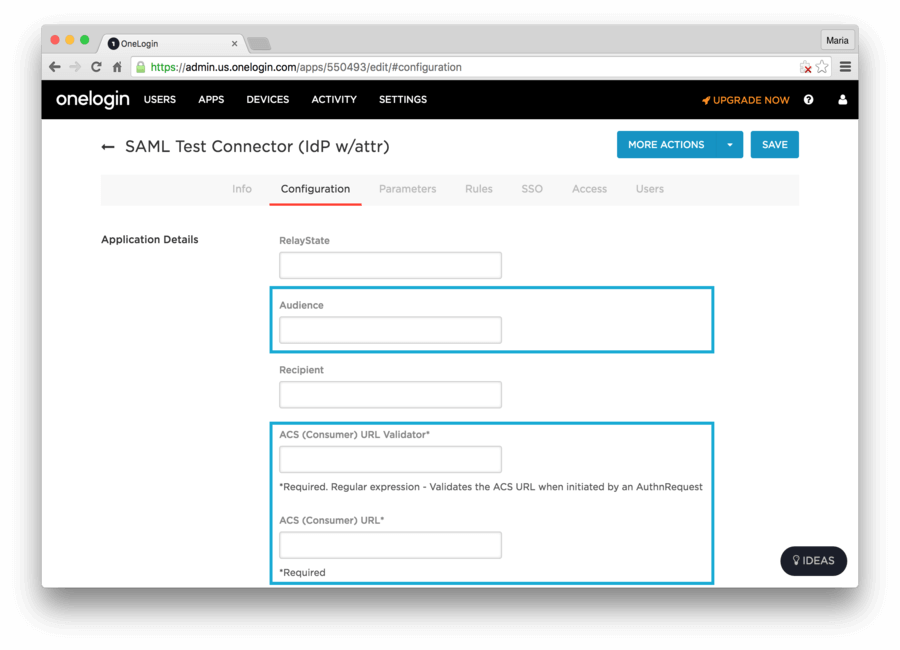
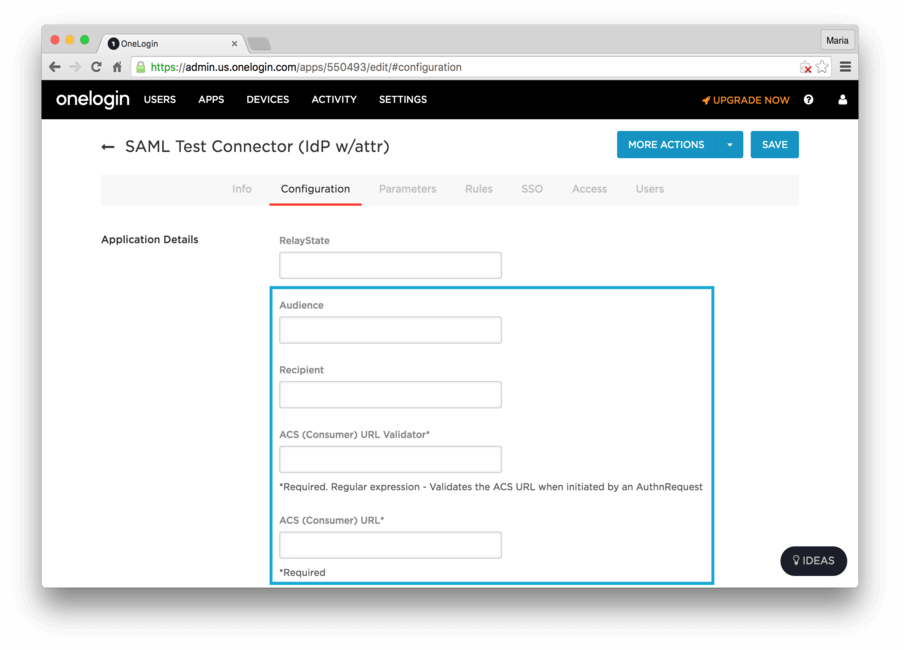
Added values for input and updated accompanying screenshot. (#6356)

diff --git a/articles/protocols/saml/identity-providers/onelogin.md b/articles/protocols/saml/identity-providers/onelogin.md
@@ -1,6 +1,7 @@
 ---
 title: OneLogin
 description: How to configure OneLogin as an identity provider.
+toc: true
 topics:
     - saml
     - identity-providers
@@ -14,19 +15,19 @@ useCase:
 
 ## Configure app on OneLogin dashboard
 
-Go to [OneLogin](https://www.onelogin.com/) dashboard and click on **Apps** > **Add Apps**.
+Go to the [OneLogin](https://www.onelogin.com/) dashboard, and click on **Apps** > **Add Apps**.
 
 ![](/media/articles/saml/identity-providers/onelogin/onelogin-add-app.png)
 
-Search for *saml* and select **SAML Test Connector (IdP w/attr)**
+Search for *saml*, and select **SAML Test Connector (IdP w/attr)**
 
 ![](/media/articles/saml/identity-providers/onelogin/onelogin-search-app.png)
 
-Change the **Display Name** of your app if you wish and click **SAVE**.
+Change the **Display Name** of your app if you wish, and click **SAVE**.
 
 ![](/media/articles/saml/identity-providers/onelogin/onelogin-save-app.png)
 
-Go to the **SSO** tab and copy the values of **SAML 2.0 Endpoint (HTTP)** and **SLO Endpoint (HTTP)**. Click on the *View Details* link at the **X.509 Certificate** field.
+Go to the **SSO** tab, and copy the values of **SAML 2.0 Endpoint (HTTP)** and **SLO Endpoint (HTTP)**. Click on the *View Details* link at the **X.509 Certificate** field.
 
 ![](/media/articles/saml/identity-providers/onelogin/onelogin-copy-values.png)
 
@@ -36,15 +37,15 @@ Download the X.509 certificate: `onelogin.pem`.
 
 ## Configure connection on Auth0 dashboard
 
-Go to [Auth0 dashboard > Connections > Enterprise > SAMLP Identity Provider](${manage_url}/#/connections/enterprise) and click **Create New** (plus icon)
+Go to [Auth0 dashboard > Connections > Enterprise > SAMLP Identity Provider](${manage_url}/#/connections/enterprise), and click **Create New** (plus icon).
 
 ![](/media/articles/saml/identity-providers/onelogin/auth0-new-samlp.png)
 
-Set a **Connection Name** (such as onelogin-customer) and copy the **SAML 2.0 Endpoint (HTTP)** on the **Sign In URL** input, and the **SLO Endpoint (HTTP)** on the **Sign Out URL** input. Upload the `onelogin.pem` certificate.
+Set a **Connection Name** (such as onelogin-customer), and copy the **SAML 2.0 Endpoint (HTTP)** on the **Sign In URL** input, and the **SLO Endpoint (HTTP)** on the **Sign Out URL** input. Upload the `onelogin.pem` certificate.
 
 ![](/media/articles/saml/identity-providers/onelogin/auth0-set-values.png)
 
-Click on **SAVE**. You will get a dialog with a **Continue** button and a link, both will take you to the following instructions:
+Click on **SAVE**. You will get a dialog with a **Continue** button and a link; both will take you to the following instructions:
 
 ![](/media/articles/saml/identity-providers/onelogin/auth0-instructions.png)
 
@@ -53,15 +54,21 @@ The information here is what the OneLogin admin needs to finish the configuratio
 * **SAML Consumer URL**: `https://${account.namespace}/login/callback`
 * **SAML Audience**: `urn:auth0:${account.tenant}:YOUR_CONNECTION_NAME`
 
-Copy the values of the **post-back URL** and the **Entity ID** and head back to your [OneLogin](https://www.onelogin.com/) app. At the **Configuration** tab copy the **post-back URL** on the **ACS (Consumer) URL** input, the **Entity ID** on the **Audience** input, and set a valid regular expression on the **ACS (Consumer) URL Validator** input (such as  `[-a-zA-Z0-9@:%._\+~#=]{2,256}\.[a-z]{2,6}\b([-a-zA-Z0-9@:%_\+.~#?&//=]*)`).
+Copy the values of the **post-back URL** and the **Entity ID**, and head back to your [OneLogin](https://www.onelogin.com/) app.
+
+At the **Configuration** tab:
+
+- Copy the **post-back URL** on the **ACS (Consumer) URL** input and the **Recipient** input
+- Copy the **Entity ID** on the **Audience** input
+- Set a valid regular expression on the **ACS (Consumer) URL Validator** input (for example, `[-a-zA-Z0-9@:%._\+~#=]{2,256}\.[a-z]{2,6}\b([-a-zA-Z0-9@:%_\+.~#?&//=]*)`)
 
 ![](/media/articles/saml/identity-providers/onelogin/onelogin-set-values.png)
 
 ## Testing
 
-If you do not already have a user on OneLogin go at the **Users** tab and add one. Also, your new Auth0 SAMLP connection should be associated with an App, otherwise you will get an `invalid_request: the connection was disabled` error.
+If you do not already have a user on OneLogin, go to the **Users** tab and add one. Also, your new Auth0 SAMLP connection should be associated with an app, otherwise you will get an `invalid_request: the connection was disabled` error.
 
-We are now set to test the connection! On your **SAMLP Identity Provider** connection click the **Try** button.
+We are now set to test the connection! On your **SAMLP Identity Provider** connection, click the **Try** button.
 
 ![](/media/articles/saml/identity-providers/onelogin/auth0-try-conn.png)
 
@@ -70,7 +77,7 @@ You are redirected to a page informing you that the connection works. Well done!
 ![](/media/articles/saml/identity-providers/onelogin/auth0-try-result.png)
 
 ::: note
-The **Try** button only works for users logged in to Auth0 dashboard. You can't send this to an anonymous user (such as a customer). If you don't have a OneLogin user, read the following section to configure Idp Initiated SignOn so the customer can try on their portal.
+The **Try** button only works for users logged in to the Auth0 dashboard. You can't send this to an anonymous user (such as a customer). If you don't have a OneLogin user, read the following section to configure Idp Initiated SignOn so the customer can try on their portal.
 :::
 
 ## IdP Initiated SignOn
@@ -91,17 +98,17 @@ Also, you have to pick the application to redirect after the SAML assertion is c
 
 ## Edit connection mappings
 
-If you use OneLogin and Auth0 out-of-the-box, users logging in using OneLogin and being created in the Auth0 dashboard, will be missing some information. Go to [Auth0 dashboard > Users](${manage_url}/#/users) and check your login. It should look like that:
+If you use OneLogin and Auth0 out-of-the-box, users logging in using OneLogin and being created in the Auth0 dashboard will be missing some information. Go to [Dashboard > Users](${manage_url}/#/users) and check your login. It should look like this:
 
 ![](/media/articles/saml/identity-providers/onelogin/user-without-mappings.png)
 
-You have to edit the mappings in the Auth0 connection, along with the parameters in the OneLogin dashboard in order to map the information. Let's see how we could add the `EmailAddress` information to our login.
+You have to edit the mappings in the Auth0 connection, along with the parameters in the OneLogin dashboard, in order to map the information. Let's see how we can add the `EmailAddress` information to our login.
 
 ::: panel EmailAddress
 Before you map the `EmailAddress` information, you have to add it as a custom parameter to the OneLogin dashboard. Use `EmailAddress` as __Field name__ and `Email` as __Value__. You can find details on the steps [here](#customize-the-user-profile). Save your changes and test the connection via Auth0 dashboard. Check that the `EmailAddress` is included in the attributes and the value is correct. You are now ready to proceed with mapping the information.
 :::
 
-Go to the __Settings__ of your [SAMLP Identity Provider](${manage_url}/#/connections/enterprise) and navigate to the tab __Mappings__. Copy the mappings below and paste it in the text box.
+Go to the __Settings__ of your [SAMLP Identity Provider](${manage_url}/#/connections/enterprise) and navigate to the tab __Mappings__. Copy the mappings below and paste them in the text box.
 
 ```javascript
 {
@@ -111,24 +118,24 @@ Go to the __Settings__ of your [SAMLP Identity Provider](${manage_url}/#/connect
 
 ![](/media/articles/saml/identity-providers/onelogin/edit-mappings.png)
 
-Save your changes and try your connection again. Once you have successfully logged in, go to [Auth0 dashboard > Users](${manage_url}/#/users) and check your login. It should look like that:
+Save your changes, and try your connection again. Once you have successfully logged in, go to [Dashboard > Users](${manage_url}/#/users), and check your login. It should look like this:
 
 ![](/media/articles/saml/identity-providers/onelogin/user-with-mappings.png)
 
 
 ## Customize the User Profile
 
-Some times the standard User Profile Attributes are not enough for the functionality you want to build. If this is the case, you can use custom attributes in order to enhance the SAML token. Let's work through a basic example.
+Sometimes the standard User Profile Attributes are not enough for the functionality you want to build. If this is the case, you can use custom attributes in order to enhance the SAML token. Let's work through a basic example.
 
-The SAML token contains, among others, two attributes: `FirstName` and `LastName`. Let's add a new custom attribute, named `FullName` that will contain the concatenation of first and last name.
+The SAML token contains, among others, two attributes: `FirstName` and `LastName`. Let's add a new custom attribute, named `FullName`, that will contain the concatenation of first and last name.
 
-In order to do so navigate to the OneLogin dashboard and edit your app.
+In order to do so, navigate to the OneLogin dashboard and edit your app.
 
-At the __Parameters__ tab click the __Add Parameter__ link.
+At the __Parameters__ tab, click the __Add Parameter__ link.
 
 ![](/media/articles/saml/identity-providers/onelogin/custom-attr-01.png)
 
-At the popup set a name for your new custom attribute at the __Field name__ text box. Make sure you check the __Include in SAML assertion__ flag. Click __Save__.
+At the popup, set a name for your new custom attribute at the __Field name__ text box. Make sure you check the __Include in SAML assertion__ flag. Click __Save__.
 
 ![](/media/articles/saml/identity-providers/onelogin/custom-attr-02.png)
 
@@ -138,11 +145,11 @@ Click on the __Value__ dropdown menu and select `- Macro -`.
 
 ![](/media/articles/saml/identity-providers/onelogin/custom-attr-03.png)
 
-At the text box set the value to `{firstname} {lastname}`. Click __Save__.
+At the text box, set the value to `{firstname} {lastname}`. Click __Save__.
 
 ![](/media/articles/saml/identity-providers/onelogin/custom-attr-04.png)
 
-Let's test this. Go back to [Auth0 dashboard > Connections > Enterprise > SAMLP Identity Provider](${manage_url}/#/connections/enterprise) and on your __SAMLP Identity Provider__ connection click the __Try__ button. The result should include the new attribute `FullName`.
+Let's test this. Go back to [Auth0 dashboard > Connections > Enterprise > SAMLP Identity Provider](${manage_url}/#/connections/enterprise) and on your __SAMLP Identity Provider__ connection, click the __Try__ button. The result should include the new attribute `FullName`.
 
 ![](/media/articles/saml/identity-providers/onelogin/custom-attr-05.png)
 
